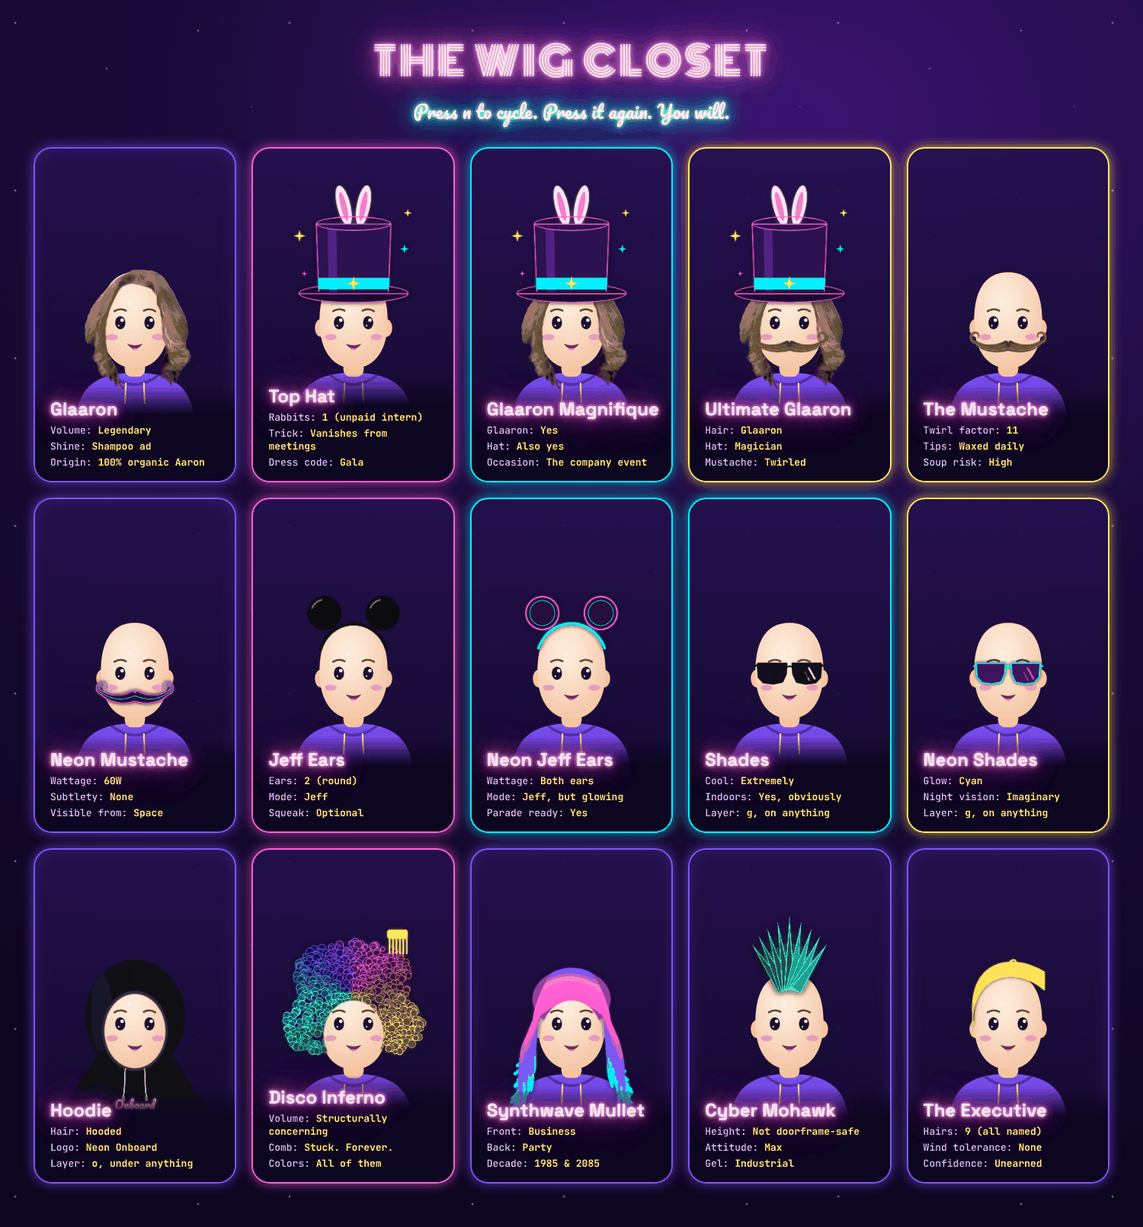
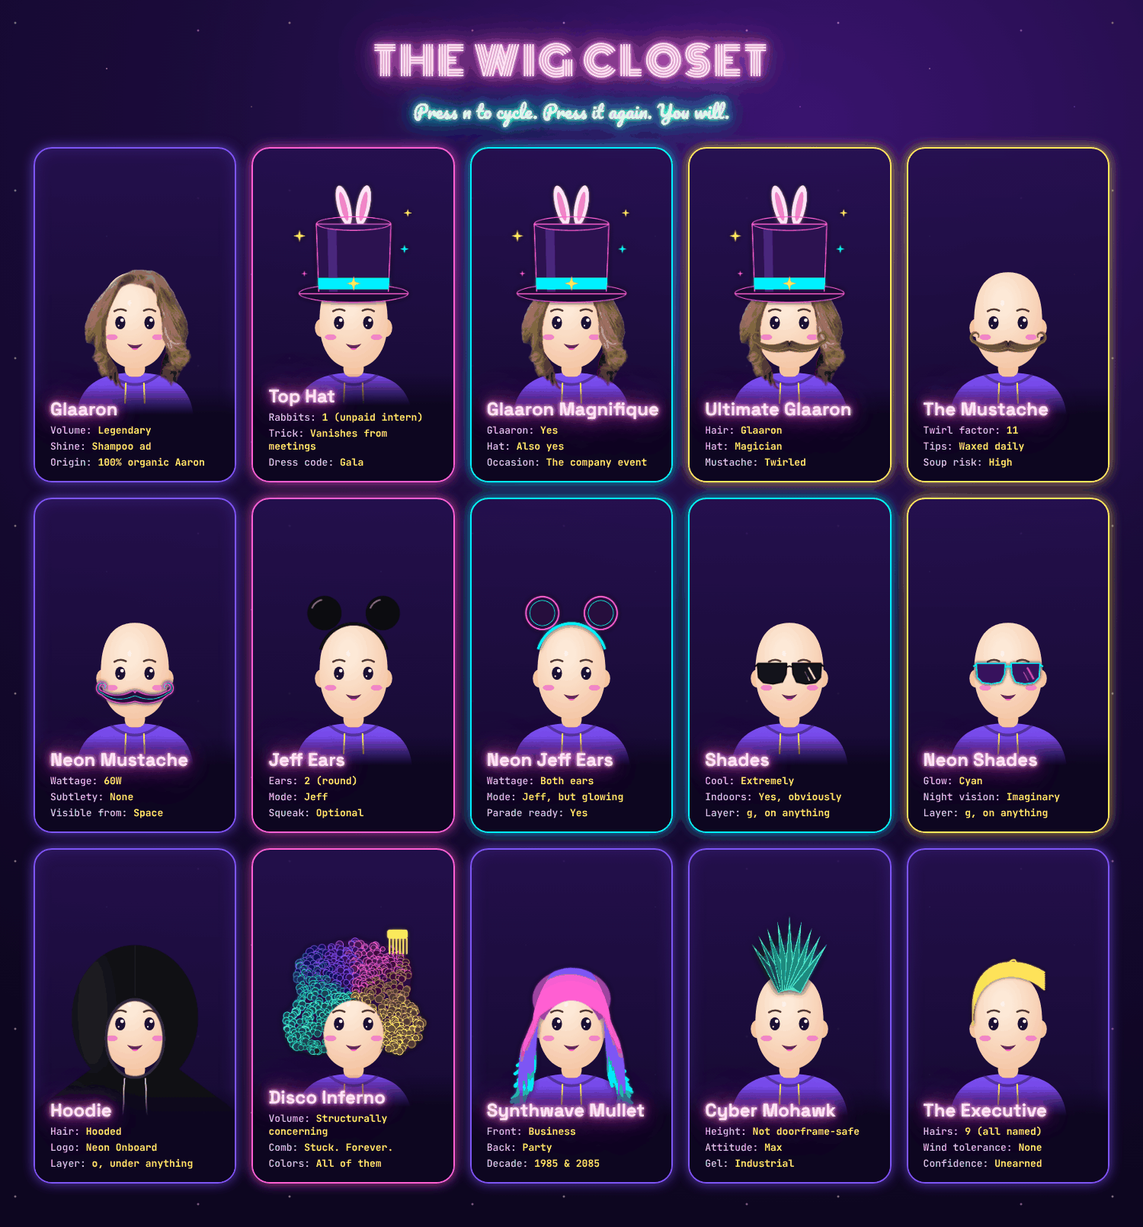
Drag, resize and bring props to front; bigger hoodie (v1.8.0)
- Props: click-and-drag to move, scroll or [ ] to resize, double-click to
  draw a prop in front of you; saved to prop-positions.json, r resets
- New defaults: disco ball top middle, aquarium top-right corner
- Hoodie: deeper hood that covers hair and ears, tighter face opening,
  broad torso that runs off the bottom of the frame, kangaroo pocket
- README: prop arranging table, Cave Mode + hoodie art and tip

Claude-Session: https://claude.ai/code/session_0142athTo3ABiBqVr5GGnaGY

diff --git a/glamcam.py b/glamcam.py
@@ -13,6 +13,9 @@ Keys (click the preview window first):
   m        mustache on any wig (cycles)          k      floating keys window (cmd+K too)
   o        hoodie mode on/off                    g      sunglasses (cycles)
   1-5      neon props behind you (0 clears)      t      who's in the aquarium (cycles)
+  drag     move a prop with the mouse            r      put the props back where they started
+  scroll   resize the prop under the mouse       [ ]    shrink / grow the last prop you grabbed
+  dbl-click  a prop: in front of you / back on the wall
   p        save the wig fit
   q/Esc    quit
 """
@@ -50,6 +53,7 @@ MODEL_DIR = BUNDLE / "models"
 WIG_DIRS = [BUNDLE / "wigs", USER_DIR / "my-wigs"]
 PROP_DIR = BUNDLE / "props"
 FIT_FILE = USER_DIR / "fit.json"
+PROP_SPOTS_FILE = USER_DIR / "prop-positions.json"  # where you dragged the props to
 WINDOW = "GlamCam"  # never changes, so OBS Window Capture finds it again after a restart
 
 _MODEL_BASE = "https://storage.googleapis.com/mediapipe-models"
@@ -185,6 +189,8 @@ class Prop:
         self.name = meta.get("name", self.id)
         self.key = str(meta["key"])
         self.x, self.top, self.height = meta["x"], meta["top"], meta["height"]
+        self.default_spot = (self.x, self.top, self.height)
+        self.front = False  # double-click: draw in front of you instead of on the wall behind
         self.bob = meta.get("bob", 0.0)  # floats up and down by this fraction of the frame
         self.flicker = meta.get("flicker", False)  # neon-sign stutter
         self.images = {"default": self._load(png_path)}
@@ -195,6 +201,20 @@ class Prop:
         for f in self.all_fish():
             f["images"] = [self._load(PROP_DIR / "sprites" / n) for n in f.get("frames", [f.get("sprite")])]
         self._sized = {}
+
+    def place(self, x, top, height=None):
+        self.x, self.top = x, top
+        if height is not None and height != self.height:
+            self.height = float(np.clip(height, 0.05, 1.5))
+            self._sized.clear()  # re-scale the art (and fish) at the new size
+            for f in self.all_fish():
+                f.pop("sized", None)
+
+    def resize(self, factor):
+        """Grow or shrink around the prop's center."""
+        old = self.height
+        self.place(self.x, self.top, old * factor)
+        self.top += (old - self.height) / 2
 
     @staticmethod
     def _load(path):
@@ -249,7 +269,77 @@ def load_props():
             props.append(Prop(png))
         except (ValueError, KeyError, json.JSONDecodeError, OSError) as e:
             print(f"Skipping prop {png.name}: {e}")
+    try:
+        spots = json.loads(PROP_SPOTS_FILE.read_text()) if PROP_SPOTS_FILE.exists() else {}
+    except (OSError, json.JSONDecodeError):
+        spots = {}
+    for pr in props:
+        if pr.id in spots:
+            spot = spots[pr.id]
+            pr.place(*spot[:3])
+            pr.front = bool(spot[3]) if len(spot) > 3 else False
     return sorted(props, key=lambda pr: pr.key)
+
+
+def save_prop_spots(props):
+    """Remember every prop that has been dragged away from its default spot."""
+    moved = {pr.id: [round(pr.x, 4), round(pr.top, 4), round(pr.height, 4), pr.front]
+             for pr in props if (pr.x, pr.top, pr.height) != pr.default_spot or pr.front}
+    PROP_SPOTS_FILE.write_text(json.dumps(moved, indent=1) + "\n")
+
+
+class PropDragger:
+    """Click and drag props around the GlamCam window, scroll (or [ ]) to resize; saved when you let go."""
+
+    def __init__(self, renderer, mirrored):
+        self.r, self.mirrored = renderer, mirrored
+        self.grab = None  # (prop, grab offset x, grab offset y) while dragging
+        self.selected = None  # the last prop you grabbed, for [ and ]
+        self.size = (1, 1)
+
+    def _hit(self, fx, fy):
+        for pr in reversed(self.r.props):  # topmost first
+            left, top, pw, ph = self.r.prop_boxes.get(pr.id, (0, 0, 0, 0))
+            if left <= fx < left + pw and top <= fy < top + ph:
+                return pr
+        return None
+
+    def resize(self, factor, pr=None):
+        pr = pr or (self.selected if self.selected in self.r.props else None)
+        if pr:
+            pr.resize(factor)
+            save_prop_spots(self.r.all_props)
+
+    def _frame_xy(self, x, y):
+        w, _ = self.size
+        return (w - 1 - x if self.mirrored else x), y  # the preview may be a mirror image
+
+    def on_mouse(self, event, x, y, flags, param):
+        w, h = self.size
+        fx, fy = self._frame_xy(x, y)
+        if event == cv2.EVENT_LBUTTONDOWN:
+            pr = self._hit(fx, fy)
+            if pr:
+                self.grab = (pr, fx - pr.x * w, fy - pr.top * h)
+                self.selected = pr
+        elif event == cv2.EVENT_LBUTTONDBLCLK:
+            pr = self._hit(fx, fy)
+            if pr:
+                pr.front = not pr.front
+                save_prop_spots(self.r.all_props)
+        elif event in (cv2.EVENT_MOUSEWHEEL, cv2.EVENT_MOUSEHWHEEL):
+            pr = self._hit(fx, fy)
+            if pr:
+                self.selected = pr
+                self.resize(1.06 if cv2.getMouseWheelDelta(flags) > 0 else 1 / 1.06, pr)
+        elif event == cv2.EVENT_MOUSEMOVE and self.grab:
+            pr, ox, oy = self.grab
+            pr.x = float(np.clip((fx - ox) / w, 0.0, 1.0))
+            pr.top = float(np.clip((fy - oy) / h, -0.5, 0.95))
+        elif event == cv2.EVENT_LBUTTONUP and self.grab:
+            self.grab = None
+            save_prop_spots(self.r.all_props)
+
 
 
 def make_wig(photo, name, out_dir=USER_DIR / "my-wigs"):
@@ -323,6 +413,8 @@ class GlamRenderer:
         self.hair_mask = None
         self.pinned = False  # cave mode: freeze the costume in place, then lurk in the dark
         self.props = []  # neon objects on the wall behind you
+        self.all_props = []  # every prop, on the wall or not (for saving positions)
+        self.prop_boxes = {}  # where each prop was last drawn, for click-and-drag
         self.species = "discus"  # who lives in the aquarium prop
 
         with quiet_native_logs():
@@ -450,8 +542,11 @@ class GlamRenderer:
             a = hair[..., None]
             out = out * (1 - a) + fill * a
         if self.props:
-            a = self.mask[..., None]
-            out = out * a + self._draw_props(out.copy(), ts) * (1 - a)
+            behind = [pr for pr in self.props if not pr.front]
+            if behind:  # on the wall: you stay in front of them
+                a = self.mask[..., None]
+                out = out * a + self._draw_props(out.copy(), ts, behind) * (1 - a)
+            out = self._draw_props(out, ts, [pr for pr in self.props if pr.front])  # in front of you
         return out.astype(np.uint8)
 
     @staticmethod
@@ -468,14 +563,15 @@ class GlamRenderer:
         a = crop[..., 3:] / 255 * alpha
         img[y0:y1, x0:x1] = crop[..., :3] * a + img[y0:y1, x0:x1] * (1 - a)
 
-    def _draw_props(self, img, ts):
+    def _draw_props(self, img, ts, props):
         h, w = img.shape[:2]
         t = ts / 1000
-        for pr in self.props:
+        for pr in props:
             p = pr.sized(h, pr.variant(self.species) if pr.swim else "default")
             ph, pw = p.shape[:2]
             top = int((pr.top + pr.bob * np.sin(t * 1.7)) * h)
             left = int(pr.x * w - pw / 2)
+            self.prop_boxes[pr.id] = (left, top, pw, ph)
             stutter = pr.flicker and (ts // 70 * 2654435761) % 100 < 4  # the occasional neon stutter
             self._blit(img, p, left, top, alpha=0.3 if stutter else 1.0)
             if pr.swim:
@@ -635,7 +731,7 @@ def draw_hud(img, text, y=34):
 HELP = [("w a s d", "move the wig"), ("- / =", "shrink / grow"), ("n", "next wig"), ("m", "mustache on any wig"),
         ("o", "hoodie mode"), ("g", "sunglasses"),
         ("x", "hide my real hair"), ("f", "cave mode (glowing eyes)"), ("b", "background blur"),
-        ("1 - 5", "neon props (0 = none)"), ("t", "aquarium fish"), ("h", "wig on / off"), ("l", "lighting match"), ("p", "save the fit"),
+        ("1 - 5", "neon props (0 = none)"), ("drag", "move a prop"), ("scroll  [ ]", "resize a prop"), ("dbl-click", "prop in front of you"), ("r", "reset props"), ("t", "aquarium fish"), ("h", "wig on / off"), ("l", "lighting match"), ("p", "save the fit"),
         ("k  cmd+K", "this window"),
         ("q", "quit")]
 KEYS_WINDOW = "GlamCam Keys"
@@ -731,6 +827,10 @@ def run(args):
     if args.glasses:
         renderer.glasses = next((wg for wg in shades[1:] if wg.id == args.glasses), None)
     props = {pr.key: pr for pr in load_props()}
+    renderer.all_props = list(props.values())
+    dragger = PropDragger(renderer, mirrored=not args.obs_window)
+    cv2.namedWindow(WINDOW)
+    cv2.setMouseCallback(WINDOW, dragger.on_mouse)
     tank = next((pr for pr in props.values() if pr.swim), None)
     species = tank.swim["order"] if tank else ["discus"]
     if args.aquarium == "all":  # older name for party mode
@@ -754,6 +854,7 @@ def run(args):
             view = out.copy() if args.obs_window else cv2.flip(out, 1)
             if time.monotonic() < hud_until:
                 draw_hud(view, f"{renderer.wig.name}  (n = next wig, k = keys)")
+            dragger.size = (view.shape[1], view.shape[0])
             cv2.imshow(WINDOW, view)
 
             k = cv2.waitKey(1) & 0xFF
@@ -773,6 +874,13 @@ def run(args):
                     hud_until = time.monotonic() + 2
             elif k == ord("0"):
                 renderer.props = []
+            elif k == ord("r"):  # every prop back to its default spot and size
+                for pr in renderer.all_props:
+                    pr.place(*pr.default_spot)
+                    pr.front = False
+                save_prop_spots(renderer.all_props)
+            elif k in (ord("["), ord("]")):
+                dragger.resize(1.08 if k == ord("]") else 1 / 1.08)
             elif chr(k) in props:
                 pr = props[chr(k)]
                 renderer.props = [p for p in renderer.props if p is not pr] if pr in renderer.props \

diff --git a/tools/draw_wigs.py b/tools/draw_wigs.py
@@ -425,40 +425,55 @@ def neon_jeff_ears():
 
 
 def hoodie():
-    """A sleek black athletic hoodie with a neon Onboard logo. The hood hides your hair."""
-    img = canvas()
-    d = ImageDraw.Draw(img)
-    black, edge, seam = (16, 16, 20, 255), (44, 44, 52, 255), (34, 34, 40, 255)
-    # body and shoulders, then the hood around the head
-    d.polygon([P(-235, 230), P(235, 230), P(470, 600), P(-470, 600)], fill=black)
-    d.ellipse([*P(-470, 430), *P(470, 760)], fill=black)
-    d.ellipse([*P(-305, -360), *P(305, 330)], fill=black)
-    # soft fabric shading: a lighter sheen down one side of the hood
-    sheen = Image.new("L", img.size, 0)
-    ImageDraw.Draw(sheen).ellipse([*P(-290, -330), *P(-120, 250)], fill=46)
-    sheen = sheen.filter(ImageFilter.GaussianBlur(40 * SS))
-    img.paste(Image.new("RGBA", img.size, (80, 80, 92, 255)), (0, 0), ImageChops.multiply(sheen, img.getchannel("A")))
-    d = ImageDraw.Draw(img)
-    d.line([P(0, -358), P(0, -170)], fill=seam, width=int(4 * SS))  # center seam over the top of the hood
-    # the face opening with a rolled edge
-    d.ellipse([*P(-202, -172), *P(202, 318)], fill=edge)
-    hole = Image.new("L", img.size, 0)
-    ImageDraw.Draw(hole).ellipse([*P(-186, -152), *P(186, 300)], fill=255)
-    hole = hole.filter(ImageFilter.GaussianBlur(2 * SS))
-    img.putalpha(ImageChops.multiply(img.getchannel("A"), ImageChops.invert(hole)))
-    d = ImageDraw.Draw(img)
-    # drawstrings with metal tips
-    for side in (-1, 1):
-        strand(d, [(side * 58, 300), (side * 66, 360), (side * 60, 420), (side * 70, 470)], 7,
-               [(200, 200, 210, 255), (230, 230, 238, 255)])
-        d.rounded_rectangle([*P(side * 70 - 7, 468), *P(side * 70 + 7, 500)], radius=3 * SS, fill=(170, 170, 185, 255))
-    # neon Onboard logo on the chest
-    logo = Image.open(REPO / "tools" / "onboard-logo.png").convert("RGBA")
-    lw = int(300 * SS)
-    logo = logo.resize((lw, int(logo.height * lw / logo.width)), Image.LANCZOS)
-    cx, cy = P(0, 520)
-    img.alpha_composite(logo, (int(cx - logo.width / 2), int(cy - logo.height / 2)))
-    finish(img, "hoodie", "Hoodie", 9, glow=0, kind="hoodie")
+    """A sleek black athletic hoodie with a neon Onboard logo. The hood covers your hair and ears,
+    and the body runs off the bottom of the frame like a real hoodie."""
+    global W, H, OX
+    saved = W, H, OX
+    W, H, OX = 1800, 2400, 900  # a bigger canvas: the shoulders and torso go way past the head
+    try:
+        img = canvas()
+        d = ImageDraw.Draw(img)
+        black, edge, seam = (16, 16, 20, 255), (44, 44, 52, 255), (34, 34, 40, 255)
+        # torso: neck down into broad shoulders, then straight down past the bottom of the frame
+        d.polygon([P(-260, 300), P(260, 300), P(560, 520), P(820, 760), P(860, 1500), P(-860, 1500),
+                   P(-820, 760), P(-560, 520)], fill=black)
+        d.ellipse([*P(-860, 560), *P(860, 1100)], fill=black)
+        # the hood: wide and deep enough to swallow hair and ears
+        d.ellipse([*P(-385, -450), *P(385, 430)], fill=black)
+        # soft fabric shading: a lighter sheen down one side of the hood and shoulder
+        sheen = Image.new("L", img.size, 0)
+        sd = ImageDraw.Draw(sheen)
+        sd.ellipse([*P(-370, -420), *P(-150, 330)], fill=46)
+        sd.ellipse([*P(-760, 640), *P(-420, 1300)], fill=30)
+        sheen = sheen.filter(ImageFilter.GaussianBlur(45 * SS))
+        img.paste(Image.new("RGBA", img.size, (80, 80, 92, 255)), (0, 0), ImageChops.multiply(sheen, img.getchannel("A")))
+        d = ImageDraw.Draw(img)
+        d.line([P(0, -448), P(0, -140)], fill=seam, width=int(4 * SS))  # center seam over the top of the hood
+        d.line([P(-420, 560), P(-470, 1500)], fill=seam, width=int(4 * SS))  # sleeve seams
+        d.line([P(420, 560), P(470, 1500)], fill=seam, width=int(4 * SS))
+        # the face opening, cinched tight: forehead hairline to chin, covering the ears
+        d.ellipse([*P(-186, -128), *P(186, 366)], fill=edge)
+        hole = Image.new("L", img.size, 0)
+        ImageDraw.Draw(hole).ellipse([*P(-168, -108), *P(168, 348)], fill=255)
+        hole = hole.filter(ImageFilter.GaussianBlur(2 * SS))
+        img.putalpha(ImageChops.multiply(img.getchannel("A"), ImageChops.invert(hole)))
+        d = ImageDraw.Draw(img)
+        # drawstrings with metal tips
+        for side in (-1, 1):
+            strand(d, [(side * 62, 360), (side * 72, 440), (side * 64, 520), (side * 76, 590)], 8,
+                   [(200, 200, 210, 255), (230, 230, 238, 255)])
+            d.rounded_rectangle([*P(side * 76 - 8, 586), *P(side * 76 + 8, 624)], radius=3 * SS, fill=(170, 170, 185, 255))
+        # kangaroo pocket
+        d.rounded_rectangle([*P(-330, 1180), *P(330, 1460)], radius=60 * SS, outline=seam, width=int(5 * SS))
+        # neon Onboard logo on the chest
+        logo = Image.open(REPO / "tools" / "onboard-logo.png").convert("RGBA")
+        lw = int(380 * SS)
+        logo = logo.resize((lw, int(logo.height * lw / logo.width)), Image.LANCZOS)
+        cx, cy = P(0, 690)
+        img.alpha_composite(logo, (int(cx - logo.width / 2), int(cy - logo.height / 2)))
+        finish(img, "hoodie", "Hoodie", 9, glow=0, kind="hoodie")
+    finally:
+        W, H, OX = saved
 
 
 def shades(neon_style):

diff --git a/README.md b/README.md
@@ -59,7 +59,7 @@ Ships with **Glaaron**, the hair that started it all, a **neon magician's top ha
 | Neon Jeff Ears | `neon-jeff-ears` | Jeff Mode, plugged in. Parade ready. |
 | Shades | `shades` | Black sunglasses. Also a layer: press `g` to wear them over *any* wig. |
 | Neon Shades | `neon-shades` | Cyan neon frames. Night vision: imaginary. Also a `g` layer. |
-| Hoodie | `hoodie` | Black athletic hoodie, neon Onboard logo on the chest. Also a layer: press `o` to wear it under *any* wig. |
+| Hoodie | `hoodie` | Black athletic hoodie with a deep hood that covers hair and ears, neon Onboard logo on the chest. Also a layer: press `o` to wear it under *any* wig. |
 | Disco Inferno | `disco-inferno` | Has a comb in it. The comb lives there now. |
 | Synthwave Mullet | `synthwave-mullet` | Business in the front, Miami Vice in the back. |
 | Cyber Mohawk | `cyber-mohawk` | Do not attempt doorways. |
@@ -109,24 +109,36 @@ For those of us who like to lurk in the dark.
 
 Cave Mode keeps the costume's lighting from the moment you froze it, so it stays bright while you go dark. Neon wigs and props look especially haunted.
 
+> 🥷 **Pro tip:** Cave Mode + [hoodie](#-hoodie--shades) + Neon Jeff Ears + neon shades + neon mustache is, scientifically speaking, peak.
+
 ## 🪩 Neon Props
 
-<p align="center"><img src="assets/props.png" alt="Neon props on the wall behind the mascot: an Onboard sign (1), a disco ball (2), a floating neon keyboard (3), and a four-pane window with 'sucks to suck' (4)"></p>
+<p align="center"><img src="assets/props.png" alt="Neon props on the wall behind the mascot: an Onboard sign (1), a disco ball hanging top middle (2), a floating neon keyboard (3), a four-pane window with 'sucks to suck' (4), and the aquarium in the top-right corner (5)"></p>
 
 Decorate the wall behind you. Press a number to toggle a prop, **`0`** to clear the wall. (Prop **`5`** is the [Aquarium](#-the-aquarium), which gets its own section, because fish.)
 
 | Key | Prop | Stats |
 |---|---|---|
 | `1` | **Onboard sign**: our first name, in pink neon, flickering like a real sign | Est.: **A while ago** |
-| `2` | **Disco ball**: hanging from the ceiling, sparkling | Groove: **Permanent** |
+| `2` | **Disco ball**: hanging from the ceiling, top middle, sparkling | Groove: **Permanent** |
 | `3` | **Floating neon keyboard**: gently bobbing in mid-air | Keys pressed: **None, it floats** |
 | `4` | **Sucks to suck**: a neon four-pane window, our [Windows support policy](#-qa-policy) made visible | Sympathy: **None** |
 
 Props hang *behind* you: GlamCam already knows which pixels are you (the same trick the background blur uses), so it draws props only on the background and you stay in front. Walk in front of the disco ball and it disappears behind your head, like a real one. In the dark with Cave Mode they keep glowing.
 
-Heads-up: in the mirrored preview window the Onboard sign reads backwards, just like a real sign behind you in a selfie. Everyone on the call sees it the right way round.
+**Put them wherever you want.** Every prop starts in a default spot, and then it's yours to arrange:
 
-Want them somewhere else? Each prop has a little settings file in [`props/`](props) (`x`, `top`, `height` as fractions of the frame), and you can drop in your own transparent PNG with a matching `.json` to add a prop.
+| Do this (in the GlamCam window) | To |
+|---|---|
+| 🖱 **Click and drag** a prop | Move it anywhere |
+| 🖱 **Scroll** over a prop | Shrink or grow it |
+| `[` / `]` | Shrink / grow the last prop you grabbed (for trackpads and wheel-less mice) |
+| 🖱 **Double-click** a prop | Bring it **in front of you**, so your chair and body can't block it. Double-click again to send it back to the wall |
+| `r` | Put every prop back in its default spot and size |
+
+Your arrangement saves the moment you let go, and it's there next time you start GlamCam (it lives in `prop-positions.json`, next to your saved wig fits). Is your chair eating the aquarium? Shrink it with the scroll wheel, drag it into a corner, or double-click it to bring it in front.
+
+Heads-up: in the mirrored preview window the Onboard sign reads backwards (and the aquarium shows on the left), just like a real room behind you in a selfie. Everyone on the call sees it the right way round. Dragging works the same either way: grab what you see.
 
 ## 🥷 Hoodie & Shades
 
@@ -136,7 +148,7 @@ Two layers that go with **everything**. They stack with whatever wig you're wear
 
 | Key | Layer | Stats |
 |---|---|---|
-| `o` | **Hoodie mode**: a black athletic hoodie with a neon **Onboard** logo on the chest. The hood goes *under* your wig and covers your real hair | Hair: **Hooded** · Drawstrings: **Symmetrical** |
+| `o` | **Hoodie mode**: a black athletic hoodie with a neon **Onboard** logo on the chest. The deep hood goes *under* your wig and covers your real hair *and* ears; the body runs off the bottom of the frame like a real hoodie | Hair: **Hooded** · Ears: **Also hooded** |
 | `g` | **Sunglasses**: cycles none → Shades → Neon Shades. They go *on top* of everything | Cool: **Extremely** · Indoors: **Yes, obviously** |
 
 Stacking order, bottom to top: **hoodie** → **wig** → **mustache** → **shades**. Hoodie + Top Hat + Mustache + Neon Shades is officially known as **The Full Send**.
@@ -315,7 +327,7 @@ In this route the preview window is mirrored like a selfie camera. Meet still ge
 
 ## 🎮 Controls
 
-<p align="center"><img src="assets/keys.png" alt="Controls: WASD move, - = size, N next wig, M mustache, X hide hair (Mike Mode), F Cave Mode, B blur, H wig on/off, L lighting, P save, K or Cmd+K keys window, 1-5 props, T aquarium fish, O hoodie, G sunglasses"></p>
+<p align="center"><img src="assets/keys.png" alt="Controls: WASD move, - = size, N next wig, M mustache, X hide hair (Mike Mode), F Cave Mode, B blur, H wig on/off, L lighting, P save, K or Cmd+K keys window, 1-5 props, mouse drag/scroll/double-click props, T aquarium fish, O hoodie, G sunglasses"></p>
 
 Click the **GlamCam** window first, then:
 
@@ -329,6 +341,9 @@ Click the **GlamCam** window first, then:
 | `g` | 😎 [Sunglasses](#-hoodie--shades): cycles none → Shades → Neon Shades, over any wig |
 | `1` `2` `3` `4` | 🪩 [Neon props](#-neon-props) on the wall behind you: Onboard sign, disco ball, floating neon keyboard, sucks to suck. `0` clears them |
 | `5` | 🐠 [The Aquarium](#-the-aquarium) on / off |
+| 🖱 drag / scroll / double-click | Move, resize, or bring a prop in front of you ([details](#-neon-props)) |
+| `[` `]` | Shrink / grow the last prop you grabbed |
+| `r` | Reset every prop to its default spot and size |
 | `t` | 🐠 Who's in the aquarium: each fish on its own, Freshwater Community, Saltwater Community, or Party Mode (everyone) |
 | `x` | 🫥 Hide your real hair (**Mike Mode**): paints it out so it can't peek out from under the wig |
 | `f` | 🦇 **[Cave Mode](#-cave-mode)**: freeze the costume in place, turn your lights off, lurk with glowing blue eyes. `f` again to resume tracking |
@@ -401,7 +416,7 @@ Pass these to `run.sh` / `run.bat`, or to the app's executable. Every one of the
 
 | Option | Does | Key |
 |---|---|---|
-| `--props IDS` | Props on the wall, comma-separated: `onboard-sign`, `disco-ball`, `neon-keyboard`, `sucks-to-suck`, `aquarium` | `1`–`5` |
+| `--props IDS` | Props on the wall, comma-separated: `onboard-sign`, `disco-ball`, `neon-keyboard`, `sucks-to-suck`, `aquarium`. They use the spots you dragged them to | `1`–`5` |
 | `--aquarium FISH` | Who's in the tank. Fresh: `discus`, `angelfish`, `stingray`, `pleco`, `freshwater` (community). Salt: `manta`, `clownfish`, `lionfish`, `saltwater` (community). Or `party` for everyone | `t` |
 | `--no-blur` | Start with background blur off | `b` |
 

diff --git a/.github/release-notes.md b/.github/release-notes.md
@@ -18,4 +18,4 @@ Glaaron · 🎩 Top Hat · Glaaron Magnifique · 👑 The Ultimate Glaaron (hair
 
 GlamCam opens a window called **GlamCam** with your wig on. To get it into Google Meet, capture that window in OBS and start OBS's virtual camera. Full steps (including the one-time OBS setup) are in the [README](https://github.com/jdonohoo/glamcam#-getting-started).
 
-Press **k** (or ⌘K / Ctrl+K) in the GlamCam window for the keys. **n** = next wig, **m** = add a mustache to any wig, **f** = 🦇 Cave Mode (freeze the costume, kill the lights, lurk with glowing blue eyes). **1–4** = 🪩 neon props on the wall behind you: Onboard sign, disco ball, floating neon keyboard, sucks to suck. **5** = 🐠 the Aquarium, **t** = who's in it: Discus, Angelfish, Stingray, Pleco or **Freshwater Community**; Manta Ray, Clownfish, Lionfish or **Saltwater Community**; or 🎉 **Party Mode** with every fish. **o** = hoodie, **g** = sunglasses, **x** = Mike Mode.
+Press **k** (or ⌘K / Ctrl+K) in the GlamCam window for the keys. **n** = next wig, **m** = add a mustache to any wig, **f** = 🦇 Cave Mode (freeze the costume, kill the lights, lurk with glowing blue eyes). **1–4** = 🪩 neon props on the wall behind you: Onboard sign, disco ball, floating neon keyboard, sucks to suck. **5** = 🐠 the Aquarium, **t** = who's in it: Discus, Angelfish, Stingray, Pleco or **Freshwater Community**; Manta Ray, Clownfish, Lionfish or **Saltwater Community**; or 🎉 **Party Mode** with every fish. **o** = hoodie, **g** = sunglasses, **x** = Mike Mode. 🖱 Drag props anywhere, scroll to resize, double-click to bring one in front of you; **r** resets them.
